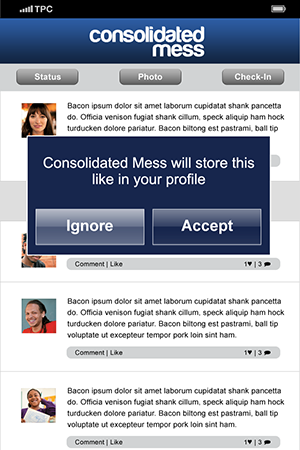
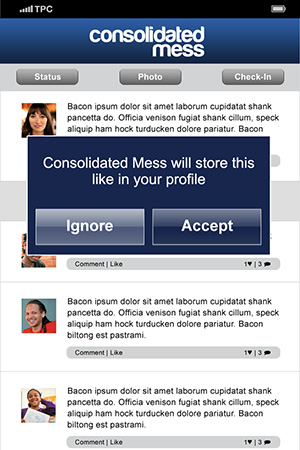
Updated CSS/JS/XML/Images

Changed region(s): [[0.21, 0.84, 0.96, 0.9644], [0.21, 0.6533, 0.96, 0.7778], [0.21, 0.2178, 0.96, 0.3111]]

diff --git a/index.html b/index.html
@@ -18,7 +18,7 @@
 
   <!-- Mobile viewport optimized: h5bp.com/viewport -->
   <meta name="viewport" content="width=device-width">
-  <meta name="apple-mobile-web-app-capable" content="yes">
+
   <!-- Place favicon.ico and apple-touch-icon.png in the root directory: mathiasbynens.be/notes/touch-icons -->
 
   <link rel="stylesheet" href="css/style.css">
@@ -29,6 +29,14 @@
        Modernizr enables HTML5 elements & feature detects for optimal performance.
        Create your own custom Modernizr build: www.modernizr.com/download/ -->
   <script src="js/libs/modernizr-2.5.3.min.js"></script>
+    <meta name="viewport" content="width=device-width, initial-scale=1">
+	<script>
+     window.addEventListener("load",function() {
+       setTimeout(function(){
+        window.scrollTo(0, 0);
+        }, 0);
+     });
+    </script>
 </head>
 <body>
   <!-- Prompt IE 6 users to install Chrome Frame. Remove this if you support IE 6.
@@ -37,7 +45,7 @@
   <header>
 
   </header>
-  <div role="main" id="main">
+  <div id="main">
 
 	<div id="cont">
 	

diff --git a/css/style.css b/css/style.css
@@ -222,8 +222,8 @@ html, body, #main, #cont, .bg, .outer{height: 100%; width: 100%;}
 
 
 /*Holder centering handled via JS*/
-.holder{height:672px; width:1050px; position:absolute; margin:auto;}
-.holder img{position: absolute; top:88px; left:350px;}
+.holder{height:672px; width:1050px; position:absolute; top:0; left:0;}
+.holder img{position: absolute; top:87px; left:351px;}
 .bg{background-position: center center}
 
 
@@ -243,7 +243,8 @@ html, body, #main, #cont, .bg, .outer{height: 100%; width: 100%;}
 
 @media only screen and (max-width: 700px) {
   .bg, .holder{background: none!important; height: 100%; width:100%; top:0!important; left:0!important;}
-  .holder img{height:960px; width:640px; top:0; left:0;}
+  .holder img{height:100%; width:100%; top:0; left:0;}
+   body {min-height: 480px;}
 }
 
 

diff --git a/js/script.js b/js/script.js
@@ -10,7 +10,7 @@ var slideRef;
 var allowAdvance = true;
 
 /*Settings*/
-var pauseTime = 3000;
+var pauseTime = 4000;
 
 $(function(){
 
